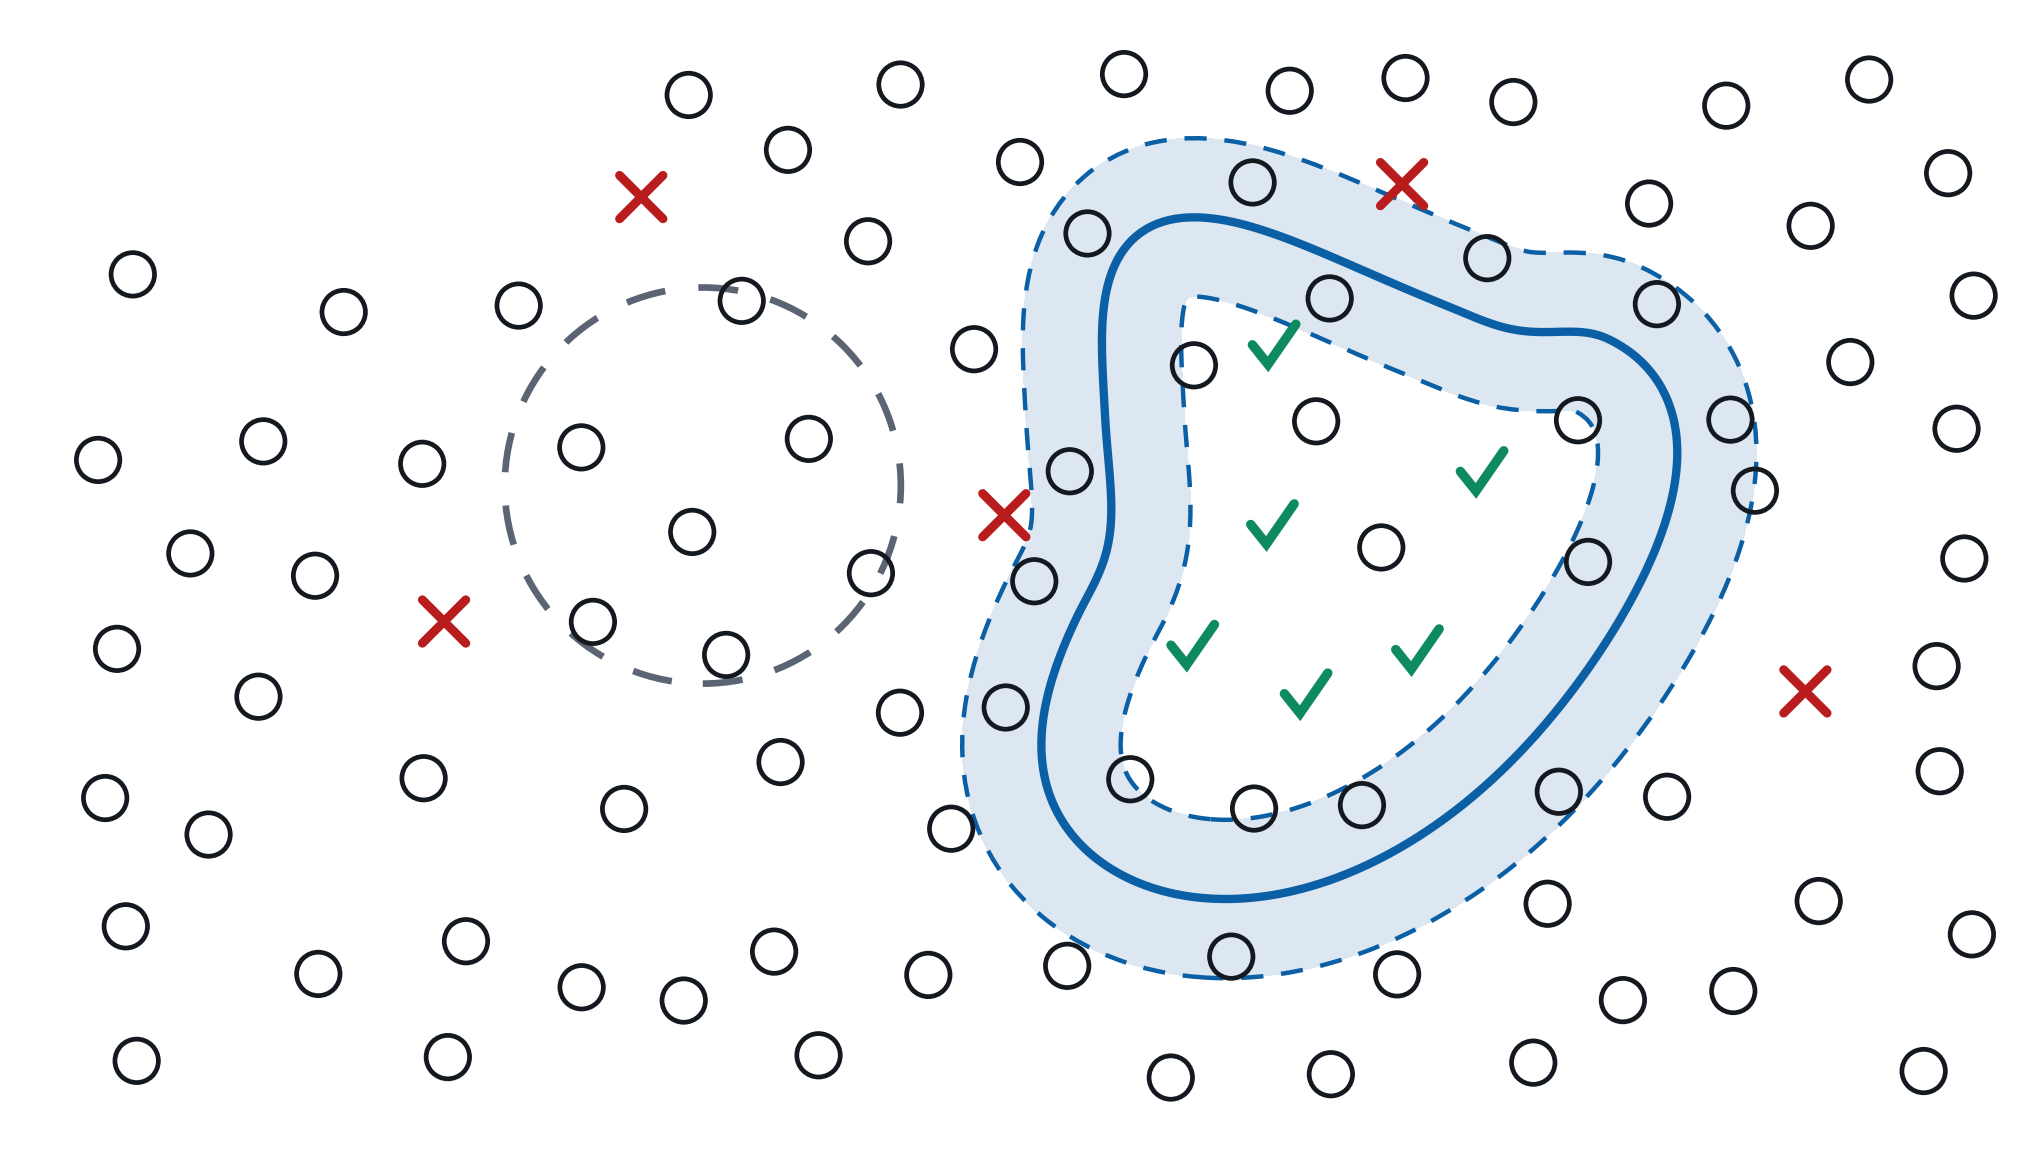
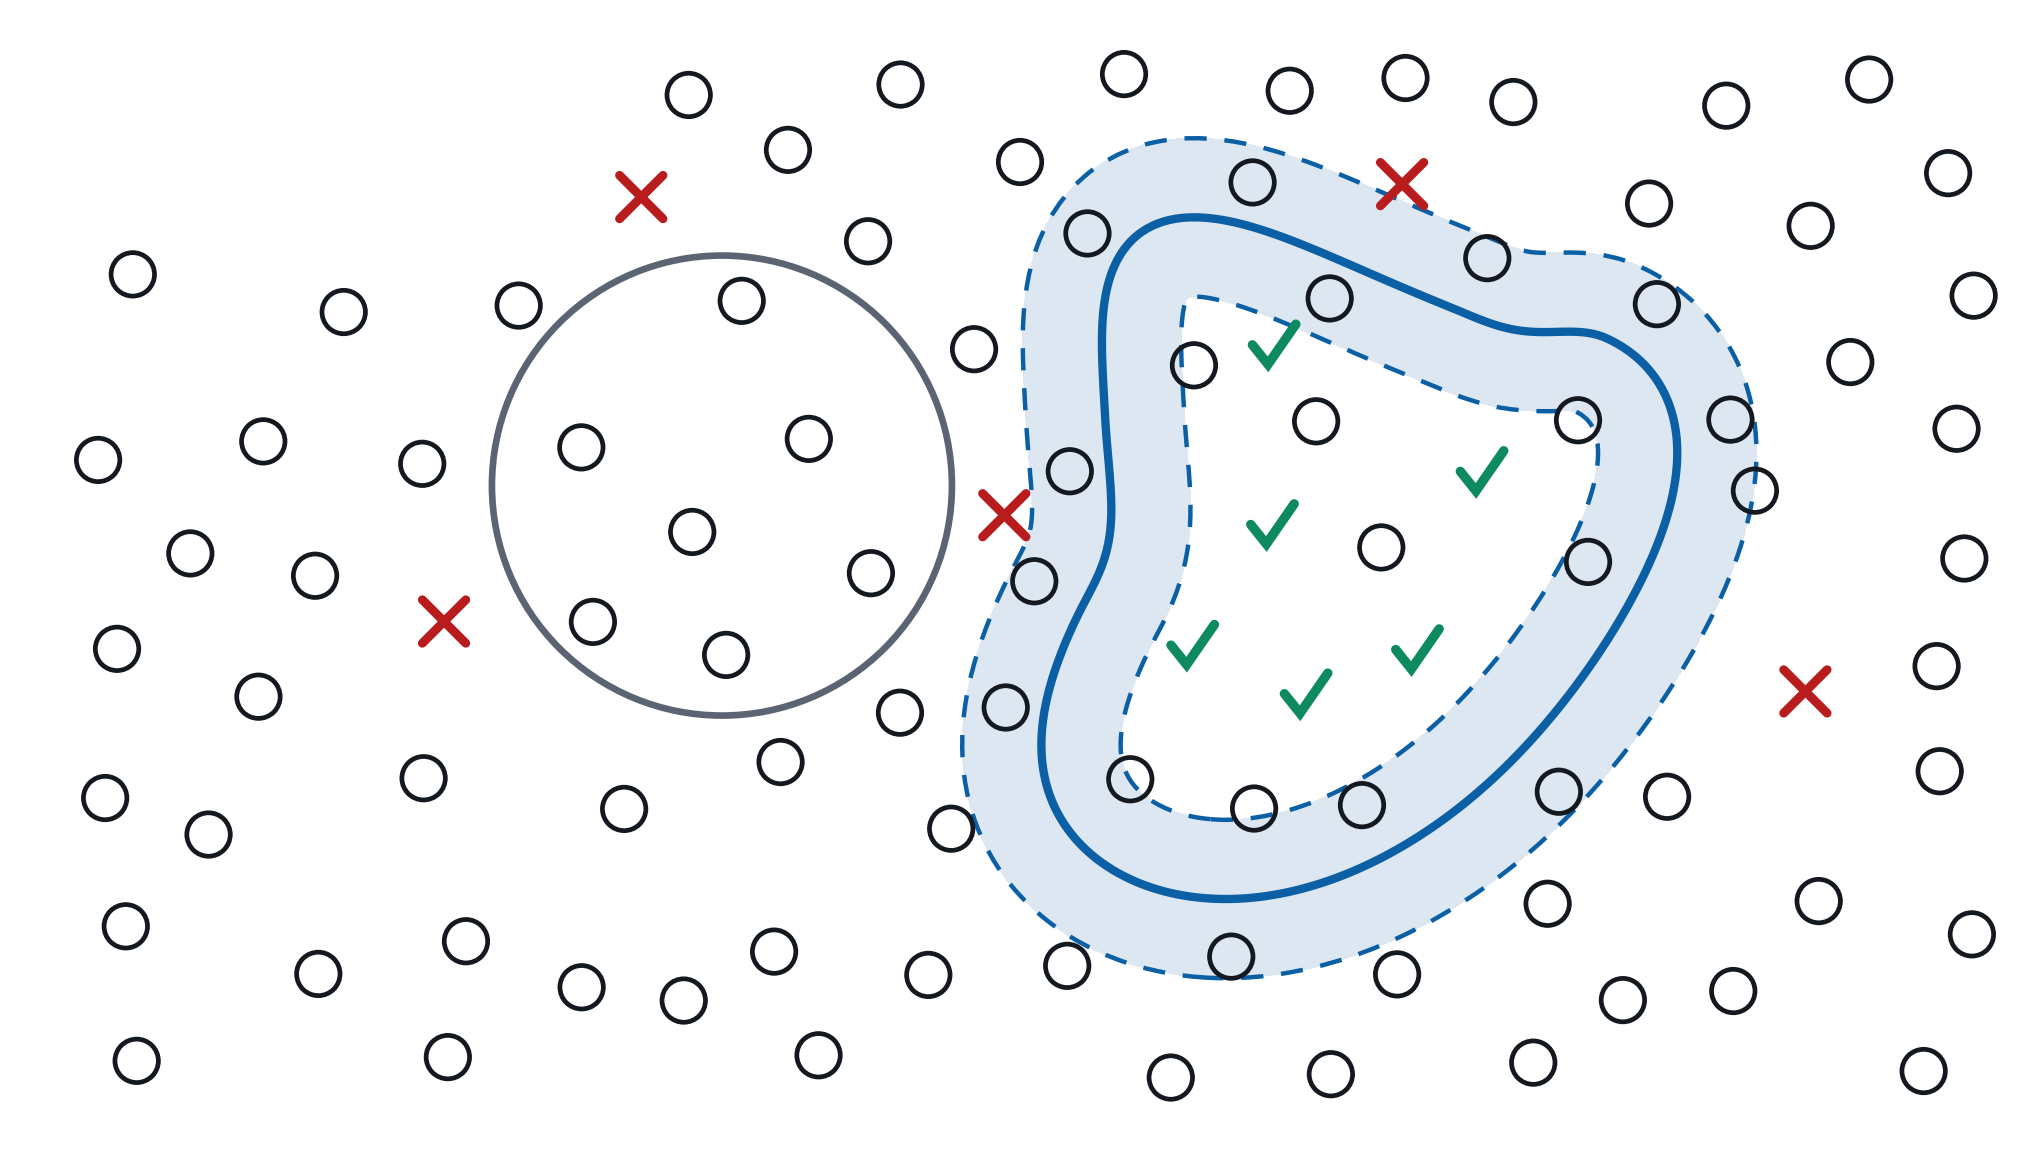
WIP: #4443 slide fixes — atlas ring, Book example renames, harness changes
Claude-Session: https://claude.ai/code/session_01L4rcNDvLXnFW1QWu7Jsw55

diff --git a/slides/figs/src/make-atlas-figs.py b/slides/figs/src/make-atlas-figs.py
@@ -213,41 +213,63 @@ def _cells_at(depth: int) -> np.ndarray:
 # ──────────────────────────────────────────────────────────────────────────────
 
 BLINDSPOT_STAGES = 4
-#: How wide the ring of never-asked items is drawn, in canvas units.
-RING_R = 1.55
+#: The radii the never-asked ring may take, in canvas units. Swept rather than
+#: fixed, because the radius is half of what keeps the ring off the items: a
+#: circle of one size that happens to pass through four of them is a picture
+#: the room reads as "which side are these on?" when the slide's claim is that
+#: they are on the inside.
+RING_RADII = np.arange(1.3, 2.05, 0.05)
+#: How far every item's edge must sit from the ring, in canvas units, so that
+#: each one is plainly in or plainly out of it. The ring is drawn 3pt wide —
+#: under 0.04 units either side of its centre line — so this leaves a gap the
+#: back of a room can see.
+RING_CLEAR = 0.15
+#: How far the ring must sit outside the loose cut of the band, and how far
+#: from any vote, in canvas units.
+RING_BAND_GAP = 0.35
+RING_VOTE_GAP = 0.4
 
 
 @functools.lru_cache(maxsize=1)
-def _ring() -> tuple[np.ndarray, tuple[int, ...]]:
-    """Where the never-asked pocket goes, and which items fall in it.
+def _ring() -> tuple[np.ndarray, float, tuple[int, ...]]:
+    """Where the never-asked pocket goes, how big it is, and which items fall in it.
 
-    Chosen rather than placed: the disc is swept over the canvas and scored by
-    how many items it holds, subject to holding no vote, keeping clear of the
-    boundary the loop is asking along, and staying out of the title's corner.
-    Picking it by hand would invite the suspicion that the figure's whole claim
-    was arranged, and the constraint that it contain no vote is the claim.
+    Chosen rather than placed: the disc is swept over the canvas, at every
+    radius in `RING_RADII`, and scored by how many items it holds, subject to
+    holding no vote, keeping clear of the band the loop is asking along,
+    staying out of the title's corner, and passing through no item. Ties go to
+    the ring with the most room between it and the nearest item. Picking it by
+    hand would invite the suspicion that the figure's whole claim was arranged,
+    and the constraint that it contain no vote is the claim.
     """
-    pts, _first, second, curve, *_ = INTRO._scene()
+    pts, _first, second, curve, _after, asked, _again, labeled = INTRO._scene()
     seed_good, seed_bad = INTRO._seed_votes()
     voted = pts[list(seed_good + seed_bad)]
-    best, best_count = None, -1
-    margin = RING_R + 1.15  # room for the ring's own caption under it
-    for x in np.arange(margin, CANVAS[0] - margin, 0.1):
-        for y in np.arange(margin, CANVAS[1] - margin, 0.1):
-            centre = np.array([x, y])
-            if x - RING_R < 4.2 and y + RING_R > 7.1:
-                continue  # the headline's corner
-            if np.hypot(*(curve - centre).T).min() < RING_R + 0.9:
-                continue  # must be nowhere near the line the loop asks along
-            if np.hypot(*(voted - centre).T).min() < RING_R + 0.5:
-                continue  # and must hold no vote, which is the whole point
-            count = int((np.hypot(*(pts - centre).T) < RING_R).sum())
-            if count > best_count:
-                best, best_count = centre, count
-    if best is None or best_count < 4:
+    band = INTRO._band_width(second, pts, labeled + (asked,))
+    best, best_key = None, (-1, 0.0)
+    for radius in RING_RADII:
+        margin = radius + 0.3
+        for x in np.arange(margin, CANVAS[0] - margin, 0.05):
+            for y in np.arange(margin, CANVAS[1] - margin, 0.05):
+                centre = np.array([x, y])
+                if x - radius < 4.2 and y + radius > 7.1:
+                    continue  # the headline's corner
+                if np.hypot(*(curve - centre).T).min() < radius + band + RING_BAND_GAP:
+                    continue  # must be nowhere near the band the loop asks along
+                if np.hypot(*(voted - centre).T).min() < radius + RING_VOTE_GAP:
+                    continue  # and must hold no vote, which is the whole point
+                dist = np.hypot(*(pts - centre).T)
+                clear = float(np.abs(dist - radius).min()) - R
+                if clear < RING_CLEAR:
+                    continue  # and must not run through an item
+                key = (int((dist < radius).sum()), clear)
+                if key > best_key:
+                    best, best_key = (centre, float(radius)), key
+    if best is None or best_key[0] < 4:
         raise SystemExit("no unexplored pocket clear of the boundary — the field moved")
-    inside = tuple(int(i) for i in np.flatnonzero(np.hypot(*(pts - best).T) < RING_R))
-    return best, inside
+    centre, radius = best
+    inside = tuple(int(i) for i in np.flatnonzero(np.hypot(*(pts - centre).T) < radius))
+    return centre, radius, inside
 
 
 def _blindspot_stage(stage: int) -> plt.Figure:
@@ -259,16 +281,20 @@ def _blindspot_stage(stage: int) -> plt.Figure:
         INTRO._band(ax, second, INTRO._band_width(second, pts, labeled + (asked,)))
     INTRO._boundary(ax, second)
 
-    centre, inside = _ring()
+    # The ring is solid, never dashed: a dashed line on this plane is one of the
+    # band's looser and tighter cuts, and the ring is not a cut. On the last page
+    # it is drawn exactly as the detector's own curve is — the same blue, the
+    # same weight — because that is what it is: a second piece of the boundary
+    # between Good and Bad, the piece the detector never drew.
+    centre, radius, inside = _ring()
     if stage >= 3:
         ax.add_patch(
             plt.Circle(
                 tuple(centre),
-                RING_R,
+                radius,
                 facecolor="none",
-                edgecolor=GREEN if stage >= 4 else SOFT,
-                linewidth=2.4,
-                linestyle=(0, (6, 5)),
+                edgecolor=BLUE if stage >= 4 else SOFT,
+                linewidth=3.0 if stage >= 4 else 2.4,
                 zorder=2,
             )
         )

diff --git a/slides/figs/src/coco_fixture.py b/slides/figs/src/coco_fixture.py
@@ -1,7 +1,7 @@
 #!/usr/bin/env python
 """COCO val2017 on demand, and the two photo corpora the deck's figures need.
 
-    python slides/figs/src/coco_fixture.py photos          # -> prints the path
+    python slides/figs/src/coco_fixture.py photos-train    # -> prints the path
     python slides/figs/src/coco_fixture.py photo-regions
 
 The deck's running example is **book** (see `make-book-figs.py` for why), so
@@ -52,7 +52,7 @@ ANNOTATIONS_URL = "http://images.cocodataset.org/annotations/annotations_trainva
 
 #: The two corpora, as `{category: how many images}`.
 #:
-#: `photos` is the three-panel shot's pile: books, rare-ish, among a few
+#: `photos-train` is the three-panel shot's pile: books, rare-ish, among a few
 #: hundred photographs of other things. The negatives are deliberately weighted
 #: toward the rectangular, printed and shelved — a laptop, a monitor, a
 #: keyboard, a phone, a clock — because a corpus whose only non-books are
@@ -60,7 +60,7 @@ ANNOTATIONS_URL = "http://images.cocodataset.org/annotations/annotations_trainva
 #: point is that the boundary is hard.
 #:
 #: `photos-prod` is the *production* pile the Find slide scores: the same fifteen
-#: subjects in the same proportions, and not one frame in common with `photos`.
+#: subjects in the same proportions, and not one frame in common with `photos-train`.
 #: Sharing nothing is the slide's whole claim — the detector was voted on one
 #: pile and is now ranking media it has never seen — so it is enforced here
 #: rather than left to a comment (see `DISJOINT_FROM`).
@@ -69,7 +69,7 @@ ANNOTATIONS_URL = "http://images.cocodataset.org/annotations/annotations_trainva
 #: many times the work per image, and the shot only ever shows one item and the
 #: strip of thumbnails beside it.
 PLANS = {
-    "photos": {
+    "photos-train": {
         "book": 44,
         "laptop": 18,
         "tv": 16,
@@ -118,12 +118,12 @@ PLANS = {
 #:
 #: The Find slide claims the detector is ranking media nobody voted on. A
 #: `photos-prod` built by re-running the same "largest box first" selection
-#: would hand back exactly the frames `photos` already took, and the claim
+#: would hand back exactly the frames `photos-train` already took, and the claim
 #: would be false in the one figure that makes it. So the reserved plan's
 #: frames are struck out of the candidate list before the second plan chooses,
 #: which leaves `photos-prod` the next-best frames of each category rather than
 #: a reshuffle.
-DISJOINT_FROM = {"photos-prod": "photos"}
+DISJOINT_FROM = {"photos-prod": "photos-train"}
 
 
 def ensure_corpus() -> Path:

diff --git a/slides/figs/src/results_grid.py b/slides/figs/src/results_grid.py
@@ -28,7 +28,7 @@ whole second half, and are not this page's argument to make.
 Named rather than sampled because in *this* corpus the two are very different
 pictures, and the reason is worth writing down. COCO files a frame under `book`
 when its largest annotated box happens to be one, and `photos-prod` is
-deliberately disjoint from `photos` (`coco_fixture.DISJOINT_FROM`), so the
+deliberately disjoint from `photos-train` (`coco_fixture.DISJOINT_FROM`), so the
 training pile has already taken the forty-four frames where a book fills the
 picture and what is left is mostly living rooms with a shelf somewhere in them.
 Twelve at random came out as two people playing Wii, a man with a sandwich and a

diff --git a/slides/README.md b/slides/README.md
@@ -399,7 +399,7 @@ composed into the same box a screenshot occupies, so the Find slide's build
 reveals into the same frame rather than moving it.
 
 The intro groups are **one session**, shot in the order a user works, from an
-app with nothing in it: import `photos` through the Add Dataset dialog, create
+app with nothing in it: import `photos-train` through the Add Dataset dialog, create
 the detector through the modal, answer what autopilot serves until the Good and
 Bad piles have something in them, import `photos-prod` the same way, then run
 the trained head over it — a second COCO corpus that shares no frame with the
